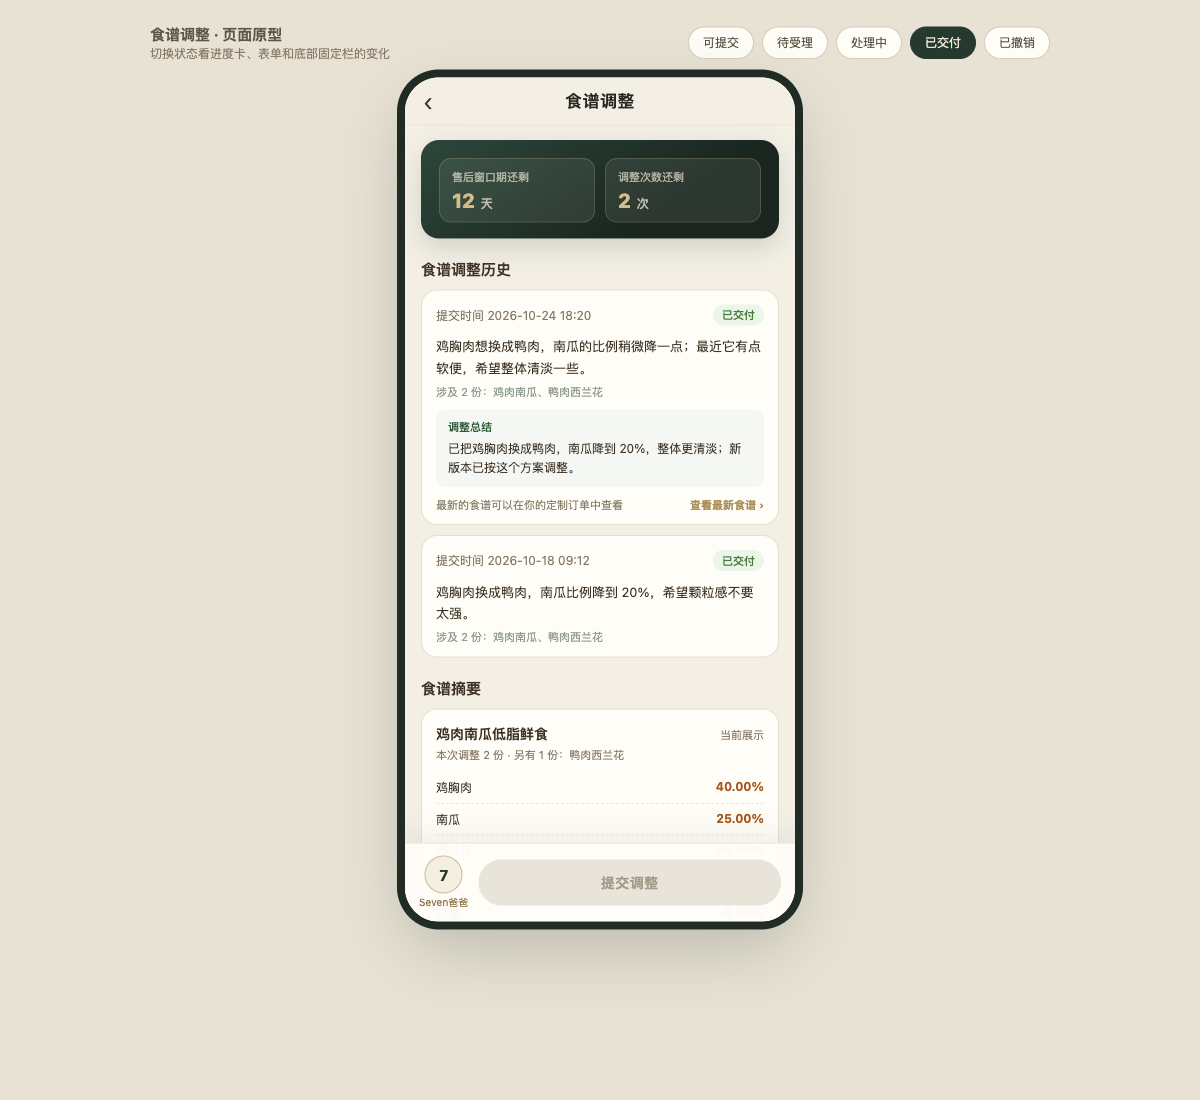
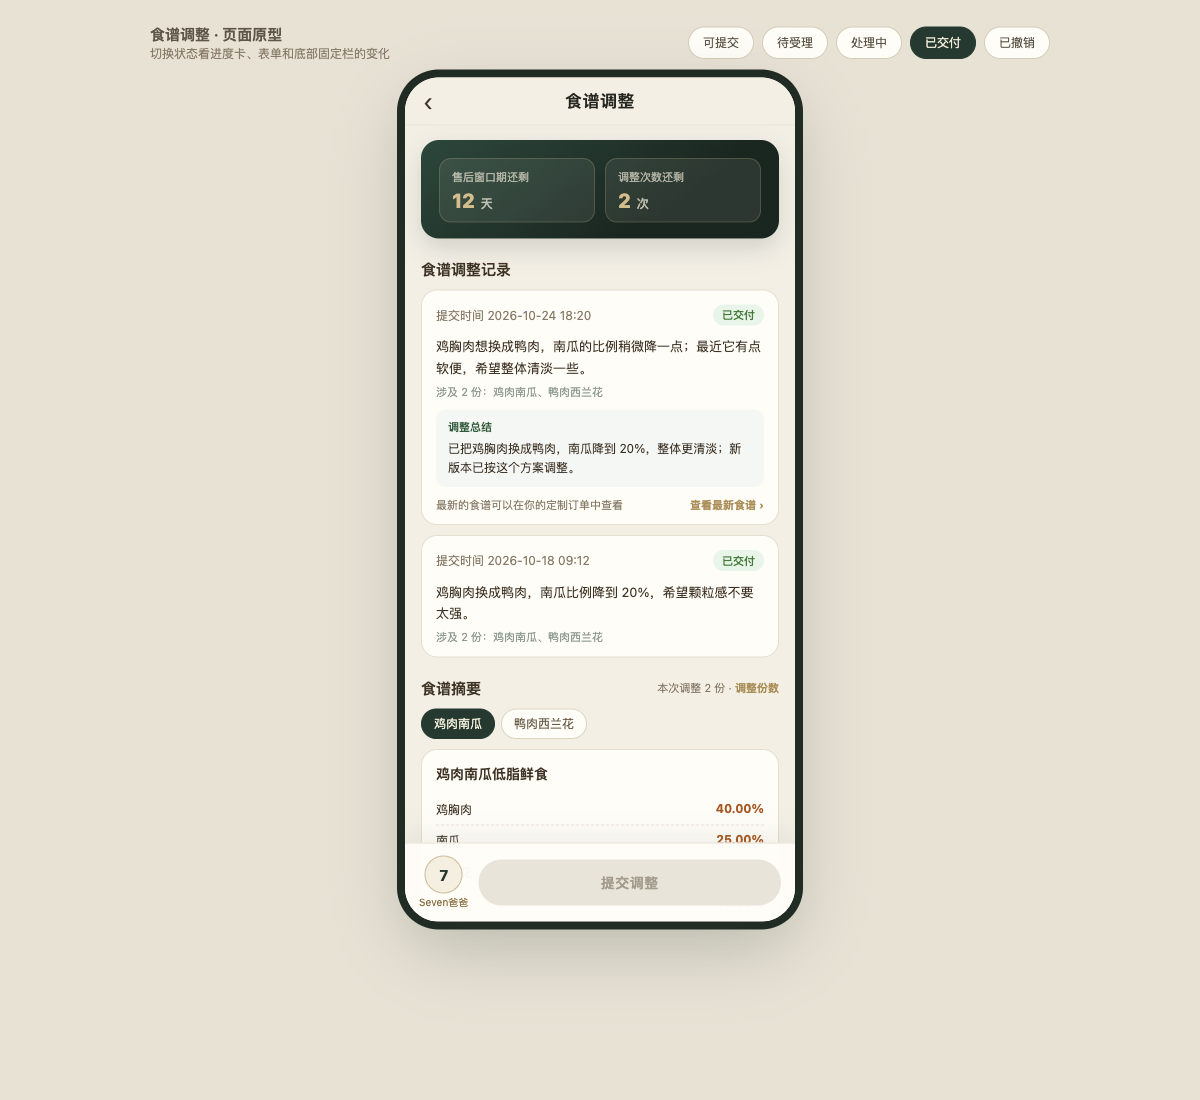
docs(custom-recipe): switchable recipe summary, records copy, phase 2 backlog

diff --git a/docs/prototypes/2026-10-24-custom-recipe-adjustment.html b/docs/prototypes/2026-10-24-custom-recipe-adjustment.html
@@ -287,6 +287,25 @@
   .macro-caption { margin-top: 12px; margin-bottom: 6px; font-size: 11px; color: #8a9a8f; }
   .macro-grid--five { grid-template-columns: repeat(3, 1fr); }
 
+
+  .summary-select { margin-bottom: 8px; }
+  .summary-tabs { display: flex; gap: 6px; margin-bottom: 10px; flex-wrap: wrap; }
+  .summary-tab {
+    border: 1px solid #e0d3bf; background: #fffdf7; color: #6b5c45;
+    border-radius: 999px; padding: 6px 12px; font-size: 12px;
+  }
+  .summary-tab.active { background: var(--green); border-color: var(--green); color: #f4ecd8; }
+
+
+  .summary-edit { color: var(--gold); font-weight: 700; }
+  .recipe-option {
+    display: flex; align-items: center; gap: 8px;
+    padding: 12px 14px; margin-bottom: 8px;
+    background: #f7f1e4; border-radius: 12px;
+    font-size: 14px; color: #3f3222;
+  }
+  .recipe-option input { width: 18px; height: 18px; accent-color: #1e3a2f; }
+
   /* 多份选择 */
   .recipe-picker { margin-bottom: 10px; }
   .picker-label { font-size: 12px; color: var(--muted); margin-bottom: 6px; }
@@ -425,7 +444,7 @@
 
       <div class="section">
         <div class="section-head">
-          <div class="section-title">食谱调整历史</div>
+          <div class="section-title">食谱调整记录</div>
         </div>
 
         <!-- 待受理 / 处理中 / 已交付：当前这条 -->
@@ -549,13 +568,16 @@
       <div class="section">
         <div class="section-head">
           <div class="section-title">食谱摘要</div>
+          <div class="section-sub">本次调整 2 份 · <span class="summary-edit" data-open-recipe-sheet>调整份数</span></div>
         </div>
-        <div class="recipe-card">
+        <div class="summary-tabs">
+          <button class="summary-tab active" data-summary-tab="0">鸡肉南瓜</button>
+          <button class="summary-tab" data-summary-tab="1">鸭肉西兰花</button>
+        </div>
+        <div class="recipe-card" data-summary-panel="0">
           <div class="recipe-top">
             <div class="recipe-name">鸡肉南瓜低脂鲜食</div>
-            <div class="recipe-count">当前展示</div>
           </div>
-          <div class="recipe-multi-note">本次调整 2 份 · 另有 1 份：鸭肉西兰花</div>
           <div class="food-list">
             <div class="food-row"><span class="food-name">鸡胸肉</span><span class="food-ratio">40.00%</span></div>
             <div class="food-row"><span class="food-name">南瓜</span><span class="food-ratio">25.00%</span></div>
@@ -574,6 +596,28 @@
             <div class="macro-cell"><div class="macro-label">碳水</div><div class="macro-value">22.4%</div></div>
           </div>
         </div>
+        <div class="recipe-card" data-summary-panel="1" hidden>
+          <div class="recipe-top">
+            <div class="recipe-name">鸭肉西兰花鲜食</div>
+          </div>
+          <div class="food-list">
+            <div class="food-row"><span class="food-name">鸭肉</span><span class="food-ratio">40.00%</span></div>
+            <div class="food-row"><span class="food-name">西兰花</span><span class="food-ratio">25.00%</span></div>
+            <div class="food-row"><span class="food-name">南瓜</span><span class="food-ratio">20.00%</span></div>
+            <div class="food-row"><span class="food-name">鸭肝</span><span class="food-ratio">10.00%</span></div>
+            <div class="food-row"><span class="food-name">鸡蛋</span><span class="food-ratio">4.88%</span></div>
+            <div class="food-row"><span class="food-name">食用盐</span><span class="food-ratio">0.12%</span></div>
+          </div>
+          <div class="supplement-line">须额外添加：<b>钙 每公斤食材添加 5 g</b>、<b>锌 每公斤食材添加 15 mg</b></div>
+          <div class="macro-caption">干物质（DM）占比</div>
+          <div class="macro-grid macro-grid--five">
+            <div class="macro-cell"><div class="macro-label">蛋白质</div><div class="macro-value">43.0%</div></div>
+            <div class="macro-cell"><div class="macro-label">脂肪</div><div class="macro-value">18.5%</div></div>
+            <div class="macro-cell"><div class="macro-label">灰分</div><div class="macro-value">8.0%</div></div>
+            <div class="macro-cell"><div class="macro-label">纤维</div><div class="macro-value">5.2%</div></div>
+            <div class="macro-cell"><div class="macro-label">碳水</div><div class="macro-value">25.3%</div></div>
+          </div>
+        </div>
       </div>
 
       <div class="section state-only state-submit">
@@ -581,13 +625,6 @@
           <div class="section-title">想怎么调整</div>
         </div>
         <div class="form-card">
-          <div class="recipe-picker">
-            <div class="picker-label">本次要调整的食谱</div>
-            <div class="picker-chips">
-              <span class="recipe-chip active">鸡肉南瓜 ✓</span>
-              <span class="recipe-chip active">鸭肉西兰花 ✓</span>
-            </div>
-          </div>
           <textarea class="adjust-input" placeholder="比如：鸡肉想换成鸭肉、某样食材减少一点、份量想调整……"></textarea>
           <div class="attachment-block">
             <div class="attachment-list">
@@ -611,13 +648,6 @@
           <div class="section-title">想怎么调整</div>
         </div>
         <div class="form-card">
-          <div class="recipe-picker">
-            <div class="picker-label">本次要调整的食谱</div>
-            <div class="picker-chips">
-              <span class="recipe-chip active">鸡肉南瓜 ✓</span>
-              <span class="recipe-chip active">鸭肉西兰花 ✓</span>
-            </div>
-          </div>
           <textarea class="adjust-input" placeholder="比如：鸡肉想换成鸭肉、某样食材减少一点、份量想调整……"></textarea>
           <div class="attachment-block">
             <div class="attachment-list">
@@ -641,13 +671,6 @@
           <div class="section-title">想怎么调整</div>
         </div>
         <div class="form-card">
-          <div class="recipe-picker">
-            <div class="picker-label">本次要调整的食谱</div>
-            <div class="picker-chips">
-              <span class="recipe-chip active">鸡肉南瓜 ✓</span>
-              <span class="recipe-chip active">鸭肉西兰花 ✓</span>
-            </div>
-          </div>
           <textarea class="adjust-input" placeholder="比如：鸡肉想换成鸭肉、某样食材减少一点、份量想调整……"></textarea>
           <div class="attachment-block">
             <div class="attachment-list">
@@ -693,6 +716,15 @@
       <div class="bar-state bar-withdrawn"><button class="primary-btn submit-adjust" disabled>提交调整</button></div>
     </div>
 
+    <div class="sheet-mask" id="recipeSheet" hidden>
+      <div class="sheet">
+        <div class="sheet-title">选择要调整的食谱</div>
+        <label class="recipe-option"><input type="checkbox" checked /> 鸡肉南瓜</label>
+        <label class="recipe-option"><input type="checkbox" checked /> 鸭肉西兰花</label>
+        <button class="sheet-cancel" id="recipeSheetDone">完成</button>
+      </div>
+    </div>
+
     <div class="sheet-mask" id="attachmentSheet" hidden>
       <div class="sheet">
         <div class="sheet-title">添加附件</div>
@@ -724,6 +756,30 @@
         const content = toggle.previousElementSibling;
         content.classList.toggle('open');
         toggle.textContent = content.classList.contains('open') ? '收起' : '展开';
+      });
+    });
+
+    // 调整份数弹窗
+    const recipeSheet = document.getElementById('recipeSheet');
+    document.querySelector('[data-open-recipe-sheet]').addEventListener('click', () => {
+      recipeSheet.hidden = false;
+    });
+    document.getElementById('recipeSheetDone').addEventListener('click', () => {
+      recipeSheet.hidden = true;
+    });
+    recipeSheet.addEventListener('click', (event) => {
+      if (event.target === recipeSheet) recipeSheet.hidden = true;
+    });
+
+    // 食谱摘要切换
+    const summaryTabs = document.querySelectorAll('.summary-tab');
+    const summaryPanels = document.querySelectorAll('[data-summary-panel]');
+    summaryTabs.forEach((tab) => {
+      tab.addEventListener('click', () => {
+        summaryTabs.forEach((t) => t.classList.toggle('active', t === tab));
+        summaryPanels.forEach((panel) => {
+          panel.hidden = panel.dataset.summaryPanel !== tab.dataset.summaryTab;
+        });
       });
     });
 

diff --git a/docs/superpowers/specs/2026-10-24-custom-recipe-adjustment-design.md b/docs/superpowers/specs/2026-10-24-custom-recipe-adjustment-design.md
@@ -67,9 +67,9 @@
 - 次数按后端 `freeRevisionsLeft`；撤销和商家驳回都不计数。
 - 窗口已过或次数为 0 时，数字照常显示，下面给一句原因，表单不出现。
 
-### 5.3 食谱调整历史
+### 5.3 食谱调整记录
 
-- 标题：**食谱调整历史**
+- 标题：**食谱调整记录**
 - 不写“最新一条在最上面”，顺序本身已经说明。
 - 按提交时间**从近到远**排。
 - 每条请求一张卡：
@@ -92,14 +92,17 @@
 目的：让顾客写需求时不用来回翻交付页，又能看到食谱的基本信息。
 
 - 标题：**食谱摘要**；不再显示“共 N 种食材”这类总数。
-- **多份订单**：先给一行紧凑的“本次要调整的食谱”选择（chip），默认选中进入时那张卡对应的食谱；从消息/订单列表/客服进来、没有 `recipeId` 时默认全选当前批次。至少选 1 份才能提交。
+- **多份订单的摘要控件**（都放在摘要区，不放在表单里）：
+  1. **看哪一份**：摘要上方是一排 tab（只列已选中的食谱）；点 tab 切换下方的食材、补剂、宏量营养。只有 1 份时不显示 tab。
+  2. **选哪几份**：摘要标题右侧写“本次调整 N 份 · 调整份数”；点“调整份数”从底部弹窗勾选/取消，至少保留 1 份。默认选中进入时那张卡对应的食谱；从消息/订单列表/客服进来、没有 `recipeId` 时默认全选当前批次。
+  - 取消选中当前正在看的那份时，自动切到第一份仍选中的食谱。
+  - 不再另外放一行“本次要调整的食谱”chip，避免和摘要 tab 重复。
 - **食材**：食材名 + 占比（不显示部位/预处理、制备方法、克数）。
 - **补剂**：营养素名 + 每公斤食材添加量（不显示补剂产品名）。
 - **宏量营养**：蛋白质、脂肪、灰分、纤维、碳水，全部标注 **DM（干物质占比）**。
   - 不显示水分、钙磷比、能量。
   - DM 折算：`DM = 100 - 水分`；`某营养素 DM% = 该营养素 as-fed% ÷ DM × 100`。
   - 数据来自当前交付快照的 `nutrition.macros`；缺项显示“—”。
-- 多份订单的摘要：只展开第一份，其余显示“另有 N 份：…”，避免一屏放不下。
 - 只读，不可编辑。
 
 ### 5.5 想怎么调整（表单）
@@ -120,7 +123,8 @@
 - 提交时带上本次选中的交付份 `deliveryItemIds`：
   - 单份老交付没有批次：**不传** `deliveryItemIds`（后端会拒绝“单份订单指定具体食谱”）；
   - 多份订单：可传多份 id。
-- 从消息中心 / 订单列表 / 客服进入（没有 `recipeId`）时：单份订单直接进入；多份订单默认全选最新一批，页面顶部显示紧凑的份选择。
+- 从消息中心 / 订单列表 / 客服进入（没有 `recipeId`）时：单份订单直接进入；多份订单默认全选最新一批。
+- 多份选择控件和摘要 tab 都在上方“食谱摘要”区，表单里不再重复放选择器。
 
 ### 5.6 提交后的状态
 
@@ -212,11 +216,16 @@
 - 后台“处理完成”弹窗已经有必填的“给顾客的处理说明”（`handleNote`），顾客历史卡直接显示；文案在后台可改成“调整总结”。
 - 商家驳回不消耗调整次数（后端额度统计调整）。
 
-### 第二阶段（后续）
+### 第二阶段（后续，已单独记录）
+
+见 `docs/plans/2026-10-24-custom-recipe-adjustment-phase2-backlog.md`。核心三件：
 
 - 售后申请详情加“进入食谱设计器”入口；
 - 食谱设计器展示“顾客调整需求”和附件；
-- 营养师改完后交付新版本，售后单写入 `linkedDeliveryId` 并置为 `RESOLVED`。
+- 营养师改完后交付新版本，售后单写入 `linkedDeliveryId` 并置为 `RESOLVED`；
+- 已交付卡的“调整总结”与“查看最新食谱”必须对应这次新交付，不能只把状态改成已交付。
+
+> 已交付总结/最新食谱入口本期 UI 就做；后台把 `handleNote` 和 `linkedDeliveryId` 真正串起来放第二阶段。
 
 ## 11. 验收标准
 
@@ -231,6 +240,7 @@
 9. 已交付显示“已交付”+后台填写的“调整总结”+“查看最新食谱”入口。
 10. 长内容自动折叠，可展开/收起。
 11. 食谱摘要显示食材、补剂营养素、5 项 DM 宏量营养；不显示食材总数、部位/预处理、产品名、克数、钙磷比、能量。
-12. 文字为空时不能提交；附件可选；附件可新增、预览、删除；删除会同时删 COS 文件。
-13. 附件上传弹窗从底部出现，选项里写清照片/文档格式。
-14. 退款入口本期不隐藏；`scene=refund` 只显示临时占位。
+12. 多份订单可选多份；“调整份数”能打开底部弹窗勾选/取消；摘要上方有摘要 tab，点 tab 能切换当前查看的那一份；只有 1 份时不显示 tab。
+13. 文字为空时不能提交；附件可选；附件可新增、预览、删除；删除会同时删 COS 文件。
+14. 附件上传弹窗从底部出现，选项里写清照片/文档格式。
+15. 退款入口本期不隐藏；`scene=refund` 只显示临时占位。

diff --git a/docs/plans/2026-10-24-custom-recipe-adjustment-phase2-backlog.md b/docs/plans/2026-10-24-custom-recipe-adjustment-phase2-backlog.md
@@ -1,0 +1,32 @@
+# 食谱调整页 · 第二阶段待办
+
+- 建立日期：2026-10-25
+- 关联需求：`docs/superpowers/specs/2026-10-24-custom-recipe-adjustment-design.md`
+- 状态：未开始（第一阶段页面完成后做）
+- 为什么单独记：已交付的“调整总结 / 最新食谱”如果只做 UI、不把后台的 `handleNote` 和 `linkedDeliveryId` 串起来，顾客会看到“已交付”但点进去还是旧食谱；设计器联动也容易在页面做完后被忘掉。
+
+## 1. 已交付的调整总结 + 最新食谱
+
+- [ ] 后台“处理完成”时继续要求填写 `handleNote`，并在顾客端显示为“**调整总结**”。
+- [ ] 重新交付后把新交付的 id 写回售后单：`CustomRecipeAftersale.linkedDeliveryId`。
+- [ ] 顾客卡“**查看最新食谱**”必须指向这次新交付；没有新交付时不显示这个入口，或不要显示“已交付”。
+- [ ] 把后台“处理完成”和“重新交付”串成一个动作（或至少约束：没有重新交付不能标已交付），避免只点“完成”。
+- [ ] 多份订单：新交付可能有多份，`linkedDeliveryId`/最新入口要能落对份；至少要落到订单详情让顾客自己选。
+- [ ] 回归：顾客卡显示调整总结；点“查看最新食谱”打开的是新版本；旧单没有 `linkedDeliveryId` 时不报错。
+
+## 2. 后台订单中心 → 食谱设计器
+
+- [ ] 订单中心售后申请详情显示：顾客需求文字、附件、涉及的食谱（多份时列清楚）。
+- [ ] 加“**进入食谱设计器**”入口。
+- [ ] 食谱设计器展示“顾客调整需求”和附件（只读面板，避免营养师来回切页面）。
+- [ ] 营养师改完并交付新版本后：售后单写 `linkedDeliveryId`、状态置 `RESOLVED`。
+- [ ] 多份订单：设计器能按选中的份分别处理/重新交付；不要把整单当成一份。
+- [ ] 回归：从售后进设计器 → 改 → 交付 → 顾客看到已交付和总结；后台售后单状态、交付 id 对得上。
+
+## 3. 与第一阶段的分界
+
+第一阶段已经包含：
+- 顾客页的调整记录、食谱摘要、附件、提交/撤销、已交付的“调整总结”展示和“查看最新食谱”按钮。
+- 附件删除连 COS 一起删；额度只统计调整类；商家驳回/顾客撤回不占次数；顾客端“已撤销”状态。
+
+第二阶段只做上面两块，不重复做顾客页。
